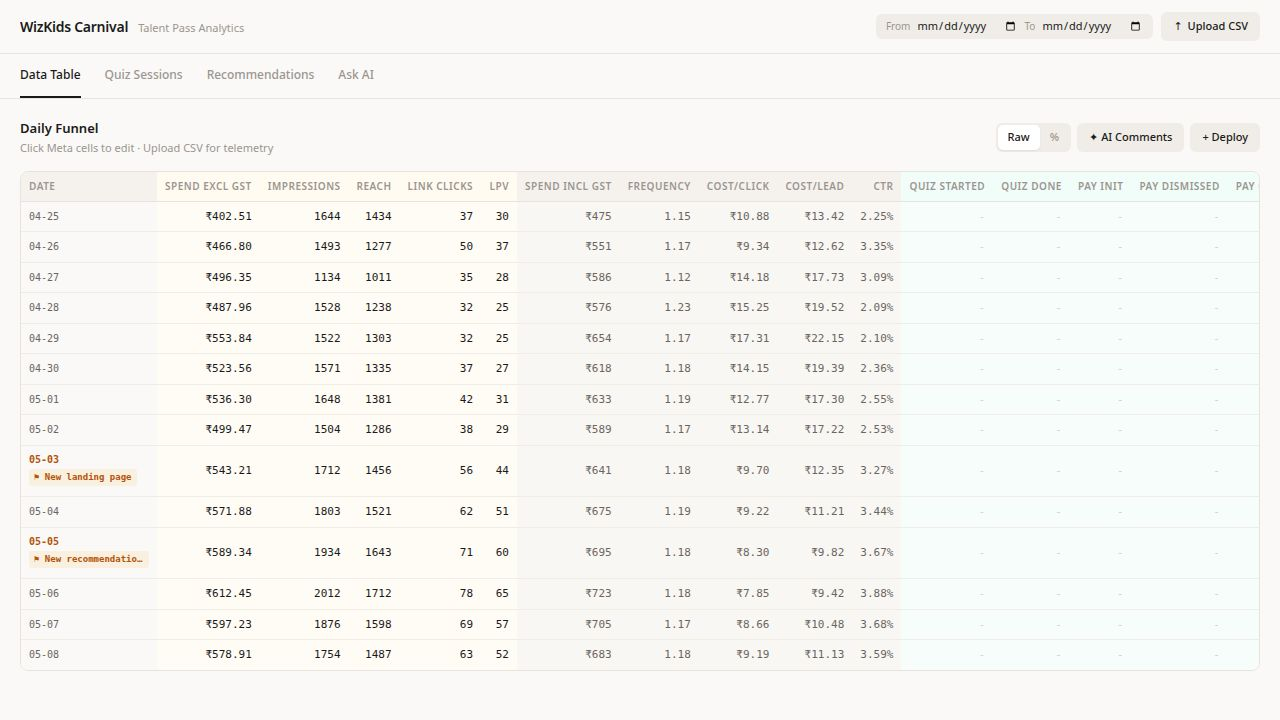
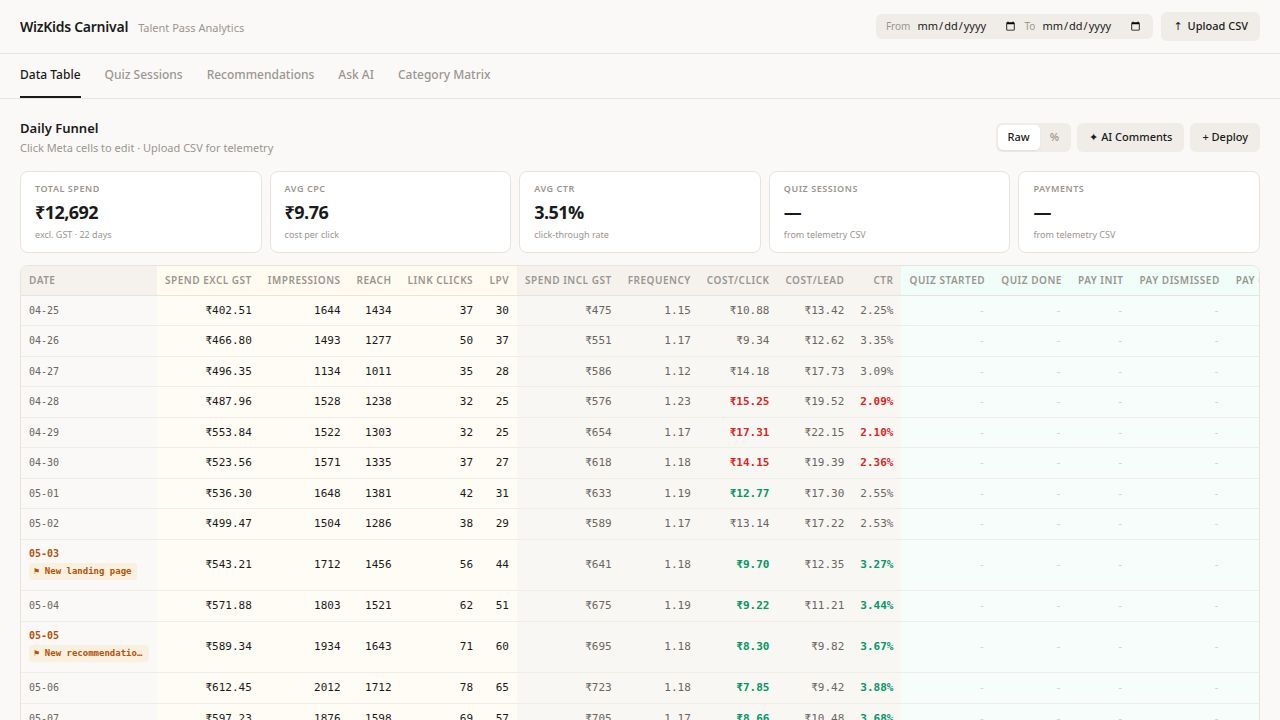
Add 'No Recommendation' as a distinct session status (Task #6)
## What changed

### Status assignment (buildSessions, ~line 214)
- Extracted `recommendation` computation before the `status` assignment so it can be used in the status logic
- Sessions that reached quiz step 4 (quizDone=true) but have an empty recommendation field are now assigned status "No Recommendation" instead of "Quiz Completed"
- "Quiz Completed" now only applies when both quiz step 4 is reached AND a recommendation is present

### Colour coding (scOf / STATUS_COLORS, line 290-291)
- Added a new "n" (no-recommendation) colour entry: amber text (#92400e) on warm cream background (#fffbeb)
- scOf() now maps "No Recommendation" to this distinct colour so the badge in the Quiz Sessions table is visually distinguishable

### Status filter dropdown (ALL_STATS, line 567)
- Added "No Recommendation" to ALL_STATS so it appears as a selectable option in the Quiz Sessions status filter

### Category Matrix — subtitle (line 955)
- Replaced the single "X without a recommendation (excluded)" note with two separate counts:
  - "X completed quiz, no recommendation" (sessions with No Recommendation status)
  - "Y did not finish quiz" (sessions that never reached quiz step 4)

### Category Matrix — No Recommendation column (lines 979, 1012-1014, 1030-1032)
- Added a "NO REC" column (amber styling) to the Category Matrix table between the category groups and the Row Total section
- Header uses rowSpan=2 so it aligns correctly with the two-row header structure
[…]

diff --git a/artifacts/wkc-analytics/src/App.tsx b/artifacts/wkc-analytics/src/App.tsx
@@ -234,7 +234,8 @@ function buildSessions(rawRows: Record<string, string>[], mapping: MappingState,
     const date = events[0]?.r.created_on?.slice(0, 10) || "";
     const dateObj = date ? new Date(date) : null;
     const quizDone = answers[4] != null;
-    const status = payStep ? (stepToStatus[payStep] || payStep) : (quizDone ? "Quiz Completed" : "");
+    const recommendation = (gp(recEvt?.p, m.recNamePath) as string) || "";
+    const status = payStep ? (stepToStatus[payStep] || payStep) : (quizDone ? (recommendation ? "Quiz Completed" : "No Recommendation") : "");
     const mobile = (gp(uEvt?.p, m.userMobilePath) as string) || "";
     if (internalNums.includes(mobile.trim())) return null;
     const lessThan2 = Object.entries(timeSec).filter(([, v]) => v <= 2).map(([k]) => k.replace(/_time_seconds$/, "")).join(", ");
@@ -246,7 +247,7 @@ function buildSessions(rawRows: Record<string, string>[], mapping: MappingState,
       Datevalue: dateObj ? dateObj.toLocaleDateString("en-US", { month: "long", day: "numeric", year: "numeric" }) : "",
       _date: date, q1_answer: answers[1]?.answer || "", q2_answer: answers[2]?.answer || "",
       q3_answer: answers[3]?.answer || "", q4_answer: answers[4]?.answer || "",
-      recommendation: (gp(recEvt?.p, m.recNamePath) as string) || "",
+      recommendation,
       "Status for Analytics": status, payment_plan: payPlan,
       button_clicked: (gp(events[events.length - 1]?.p, "data.buttonId") as string) || "",
       "Time Spent Less Than 2 Seconds": lessThan2,
@@ -310,8 +311,8 @@ const TD = (a: string = "right", bg: string = "#faf9f7"): React.CSSProperties =>
 const BTN = (v: string = "default"): React.CSSProperties => ({ background: v === "primary" ? "#1a1a1a" : "#f0ede8", color: v === "primary" ? "#fff" : "#1a1a1a", border: "none", borderRadius: 6, padding: "6px 12px", fontSize: 11, fontWeight: 500, cursor: "pointer", fontFamily: "inherit" });
 const INP: React.CSSProperties = { border: "1px solid #e8e3dc", borderRadius: 5, padding: "5px 9px", fontSize: 11, background: "#fff", color: "#1a1a1a", fontFamily: "inherit", outline: "none" };
 const DPILL: React.CSSProperties = { background: "#f59e0b18", color: "#b45309", fontSize: 9, fontWeight: 600, padding: "2px 5px", borderRadius: 3, display: "inline-block", marginTop: 2, maxWidth: 120, overflow: "hidden", textOverflow: "ellipsis", whiteSpace: "nowrap" };
-const STATUS_COLORS: Record<string, { c: string; b: string }> = { s: { c: "#059669", b: "#f0fdf4" }, i: { c: "#0369a1", b: "#f0f9ff" }, d: { c: "#dc2626", b: "#fef2f2" }, q: { c: "#6b6560", b: "#f5f2ee" } };
-const scOf = (s: string) => s === "Payment Successful" ? STATUS_COLORS.s : s === "Payment Intiated" ? STATUS_COLORS.i : (s || "").includes("Dismiss") || (s || "").includes("Abandon") ? STATUS_COLORS.d : STATUS_COLORS.q;
+const STATUS_COLORS: Record<string, { c: string; b: string }> = { s: { c: "#059669", b: "#f0fdf4" }, i: { c: "#0369a1", b: "#f0f9ff" }, d: { c: "#dc2626", b: "#fef2f2" }, q: { c: "#6b6560", b: "#f5f2ee" }, n: { c: "#92400e", b: "#fffbeb" } };
+const scOf = (s: string) => s === "Payment Successful" ? STATUS_COLORS.s : s === "Payment Intiated" ? STATUS_COLORS.i : (s || "").includes("Dismiss") || (s || "").includes("Abandon") ? STATUS_COLORS.d : s === "No Recommendation" ? STATUS_COLORS.n : STATUS_COLORS.q;
 const Q4L: Record<string, string> = { "chance_to_be_among_indias_best": "India's best", "local_to_national_leaderboard": "Leaderboard", "medals_and_certificates": "Medals", "personalized_feedback_report": "Feedback", "school_recognition": "School rec.", "showcase_your_childs_talent": "Showcase" };
 
 function Spin() { return <span style={{ display: "inline-block", width: 12, height: 12, border: "1.5px solid #e5e0d8", borderTopColor: "#1a1a1a", borderRadius: "50%", animation: "spin .7s linear infinite" }} />; }
@@ -511,7 +512,7 @@ export default function App() {
 
   const uniqueQDates = [...new Set(quizRows.map(r => r.Datevalue).filter(Boolean))].sort();
   const ALL_RECS = ["Build It!", "Color Wizards", "Dance Wizards", "Handwriting Champs", "Instrumental Genius", "Master Orator", "Recite It! - English", "Singing Stars", "Tell Ur Tale"];
-  const ALL_STATS = ["Quiz Completed", "Payment Intiated", "Payment Successful", "Payment Dismissed", "Payment Abandoned"];
+  const ALL_STATS = ["Quiz Completed", "No Recommendation", "Payment Intiated", "Payment Successful", "Payment Dismissed", "Payment Abandoned"];
   const TYPE_META: Record<string, { label: string; color: string; bg: string; dot: string }> = {
     action: { label: "Action", color: "#1a1a1a", bg: "#f5f2ee", dot: "#1a1a1a" },
     watch: { label: "Watch", color: "#0369a1", bg: "#f0f9ff", dot: "#0369a1" },
@@ -569,8 +570,11 @@ export default function App() {
   const cmActiveCols = CM_STATUS_COLS.filter(c => cmVisibleCols.has(c.key));
   const cmAllSessions = quizRows.filter(s => inRange(s._date, dateRange));
   const cmSessions = cmAllSessions.filter(s => !!s.recommendation);
-  const cmUnmapped = cmAllSessions.length - cmSessions.length;
-  const cmDates = [...new Set(cmSessions.map(s => s._date).filter(Boolean))].sort();
+  const cmNoRecSessions = cmAllSessions.filter(s => s["Status for Analytics"] === "No Recommendation");
+  const cmNoFinish = cmAllSessions.length - cmSessions.length - cmNoRecSessions.length;
+  const cmNoRecPerDay: Record<string, number> = {};
+  cmNoRecSessions.forEach(s => { if (s._date) cmNoRecPerDay[s._date] = (cmNoRecPerDay[s._date] || 0) + 1; });
+  const cmDates = [...new Set([...cmSessions.map(s => s._date), ...cmNoRecSessions.map(s => s._date)].filter(Boolean))].sort();
   const cmGetBucket = (status: string): "rec" | "payInit" | "payAbn" | "payOK" =>
     status === "Payment Successful" ? "payOK" : status === "Payment Intiated" ? "payInit" : (status === "Payment Dismissed" || status === "Payment Abandoned") ? "payAbn" : "rec";
   type CmCount = { rec: number; payInit: number; payAbn: number; payOK: number };
@@ -879,7 +883,7 @@ export default function App() {
             <div style={{ fontSize: 13, fontWeight: 600, marginBottom: 2 }}>Category Matrix</div>
             <div style={{ fontSize: 11, color: "#9b9590" }}>
               {cmDates.length > 0
-                ? `${cmDates.length} day${cmDates.length !== 1 ? "s" : ""} · ${cmSessions.length} session${cmSessions.length !== 1 ? "s" : ""} with a category${cmUnmapped > 0 ? ` · ${cmUnmapped} without a recommendation (excluded)` : ""}`
+                ? `${cmDates.length} day${cmDates.length !== 1 ? "s" : ""} · ${cmSessions.length} session${cmSessions.length !== 1 ? "s" : ""} with a category${cmNoRecSessions.length > 0 ? ` · ${cmNoRecSessions.length} completed quiz, no recommendation` : ""}${cmNoFinish > 0 ? ` · ${cmNoFinish} did not finish quiz` : ""}`
                 : "Upload a telemetry CSV to populate this view"}
             </div>
           </div>
@@ -903,6 +907,7 @@ export default function App() {
                     {ALL_RECS.map(cat => (
                       <th key={cat} colSpan={cmActiveCols.length + 1} style={{ ...TH("center", "#f5f2ee"), borderRight: "2px solid #d5d0c8", fontSize: 10, color: "#1a1a1a", letterSpacing: "-0.01em" }}>{cat}</th>
                     ))}
+                    <th rowSpan={2} style={{ ...TH("center", "#fffbeb"), borderRight: "2px solid #d5d0c8", fontSize: 10, color: "#92400e", fontWeight: 600, verticalAlign: "bottom", paddingBottom: 11, borderBottom: "2px solid #1a1a1a" }}>NO REC</th>
                     <th colSpan={cmActiveCols.length + 1} style={{ ...TH("center", "#f0ede8"), fontSize: 10, color: "#6b6560" }}>Row Total</th>
                   </tr>
                   <tr>
@@ -935,8 +940,9 @@ export default function App() {
                             </>
                           );
                         })}
+                        <td style={{ ...TD("right", "#fffbeb"), fontFamily: "monospace", fontWeight: 600, color: cmNoRecPerDay[date] ? "#92400e" : "#ddd", borderRight: "2px solid #e8e3dc" }}>{cmNoRecPerDay[date] || "—"}</td>
                         {cmActiveCols.map(col => { const v = (rowT as Record<string, number>)[col.key]; return <td key={"rt" + col.key} style={{ ...TD("right", "#f5f2ee"), fontFamily: "monospace", fontWeight: 600, color: v ? col.color : "#ddd" }}>{v || "—"}</td>; })}
-                        <td style={{ ...TD("right", "#f0ede8"), fontFamily: "monospace", fontWeight: 700 }}>{rowActiveSum || "—"}</td>
+                        <td style={{ ...TD("right", "#f0ede8"), fontFamily: "monospace", fontWeight: 700 }}>{(rowActiveSum + (cmNoRecPerDay[date] || 0)) || "—"}</td>
                       </tr>
                     );
                   })}
@@ -952,8 +958,9 @@ export default function App() {
                         </>
                       );
                     })}
+                    <td style={{ ...TD("right", "#fffbeb"), fontFamily: "monospace", fontWeight: 700, color: "#92400e", borderRight: "2px solid #d5d0c8" }}>{cmNoRecSessions.length || 0}</td>
                     {cmActiveCols.map(col => <td key={"gt" + col.key} style={{ ...TD("right", "#e8e3dc"), fontFamily: "monospace", fontWeight: 700, color: col.color }}>{(cmGrandTotal as Record<string, number>)[col.key] || 0}</td>)}
-                    <td style={{ ...TD("right", "#e0dbd3"), fontFamily: "monospace", fontWeight: 700, fontSize: 12 }}>{cmActiveCols.reduce((s, c) => s + (cmGrandTotal as Record<string, number>)[c.key], 0)}</td>
+                    <td style={{ ...TD("right", "#e0dbd3"), fontFamily: "monospace", fontWeight: 700, fontSize: 12 }}>{cmActiveCols.reduce((s, c) => s + (cmGrandTotal as Record<string, number>)[c.key], 0) + cmNoRecSessions.length}</td>
                   </tr>
                 </tbody>
               </table>